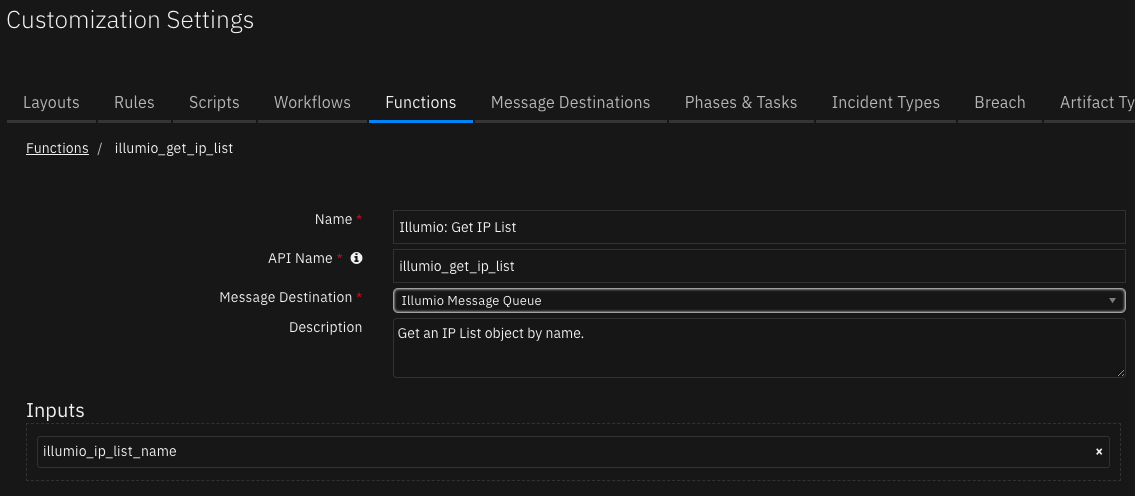
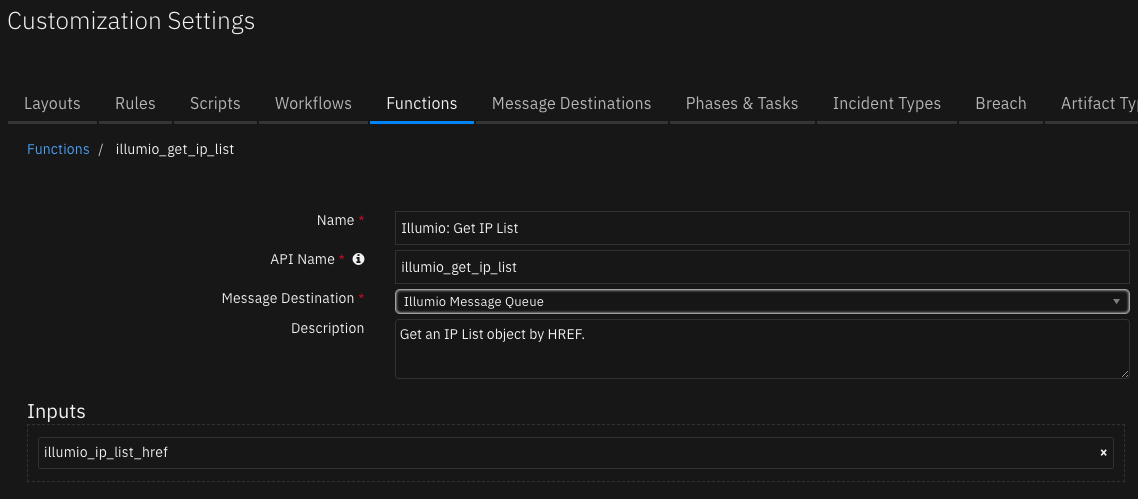
update user guide and screenshots for v1.1.0

diff --git a/fn_illumio/doc/README.md b/fn_illumio/doc/README.md
@@ -8,7 +8,9 @@
 - [Function - Illumio: Create Service Binding](#function---illumio-create-service-binding)
 - [Function - Illumio: Create Ruleset](#function---illumio-create-ruleset)
 - [Function - Illumio: Create Rule](#function---illumio-create-rule)
+- [Function - Illumio: Create IP List](#function---illumio-create-ip-list)
 - [Function - Illumio: Get IP List](#function---illumio-get-ip-list)
+- [Function - Illumio: Get IP Lists](#function---illumio-get-ip-lists)
 - [Function - Illumio: Get Workload](#function---illumio-get-workload)
 - [Function - Illumio: Get Workloads](#function---illumio-get-workloads)
 - [Function - Illumio: Run Traffic Analysis](#function---illumio-run-traffic-analysis)
@@ -32,12 +34,15 @@ You can find additional documentation for your version of Illumio Core through t
 The following functions are currently implemented:  
 
 * Create an Enforcement Boundary
+* Create an IP List
 * Create a Rule Set
     * Create a Rule
 * Create a Virtual Service
     * Bind Workloads to a Virtual Service
-* Get an IP List by name
-* Get one or more Workloads
+* Get a collection of IP Lists
+* Get an IP List by HREF
+* Get a collection of Workloads
+* Get a Workload by HREF
 * Provision policy objects
 * Run a traffic analysis query
 * Update the enforcement modes of one or more Workloads
@@ -537,8 +542,114 @@ None
 
 ---
 
+## Function - Illumio: Create IP List  
+Create an IP List object.  
+
+ ![screenshot: fn-illumio-create-ip-list ](./screenshots/fn-illumio-create-ip-list.png)
+
+<details><summary>Inputs:</summary>
+<p>
+
+| Name | Type | Required | Example | Tooltip |
+| ---- | :--: | :------: | ------- | ------- |
+| `illumio_ip_list_name` | `text` | No | `IPL-IBM-SOAR` | IP List name. Defaults to IPL-IBM-SOAR |
+| `illumio_ip_list_description` | `text` | No | `IP list created through IBM SOAR.` | IP List description. |
+| `illumio_ip_list_fqdns` | `text` | No | `example1.com,example2.com` | Comma-separated list of FQDNs to add to the created IP list. Note that either FQDNs or IP ranges must be provided for valid IP list creation. |
+| `illumio_ip_list_ip_ranges` | `text` | No | `127.0.0.1,10.0.0.0/8,172.168.0.2-172.168.0.12` | Comma-separated list of IP addresses or ranges to include in the created IP list. The values can be single IPs, CIDR format, or hyphenated start-end ranges. Note that either IP ranges or FQDNs must be provided for valid IP list creation. |
+
+</p>
+</details>
+
+<details><summary>Outputs:</summary>
+<p>
+
+```python
+results = {
+    "version": 2.0,
+    "success": true,
+    "reason": null,
+    "content": {
+        "href": "/orgs/28/sec_policy/draft/ip_lists/2335",
+        "name": "IPL-LAB",
+        "description": "",
+        "created_at": "2022-03-10T04:33:50.982Z",
+        "updated_at": "2022-03-10T04:33:50.989Z",
+        "update_type": "create",
+        "created_by": {
+            "href": "/users/520"
+        },
+        "updated_by": {
+            "href": "/users/520"
+        },
+        "ip_ranges": [
+            {
+                "from_ip": "10.2.24.0/28",
+                "exclusion": false
+            },
+            {
+                "from_ip": "10.8.16.192",
+                "to_ip": "10.8.16.212",
+                "exclusion": false
+            },
+            {
+                "from_ip": "10.10.0.146",
+                "exclusion": false
+            }
+        ],
+        "fqdns": [
+            {
+                "fqdn": "ibmsoar.lab.com"
+            },
+            {
+                "fqdn": "apphost.lab.com"
+            }
+        ]
+    },
+    "raw": null,
+    "inputs": {
+        "illumio_ip_list_ip_ranges": "10.2.24.0/28,10.8.16.192-10.8.16.212,10.10.0.146",
+        "illumio_ip_list_name": "IPL-LAB",
+        "illumio_ip_list_description": "",
+        "illumio_ip_list_fqdns": "ibmsoar.lab.com,apphost.lab.com"
+    },
+    "metrics": {
+        "version": "1.0",
+        "package": "fn-illumio",
+        "package_version": "1.1.0",
+        "host": "C02G82JEMD6R",
+        "execution_time_ms": 812,
+        "timestamp": "2022-03-09 23:33:50"
+    }
+}
+```
+
+</p>
+</details>
+
+<details><summary>Example Pre-Process Script:</summary>
+<p>
+
+```python
+None
+```
+
+</p>
+</details>
+
+<details><summary>Example Post-Process Script:</summary>
+<p>
+
+```python
+None
+```
+
+</p>
+</details>
+
+---
+
 ## Function - Illumio: Get IP List  
-Get an IP List object by name.  
+Get an IP List object by HREF.  
 
  ![screenshot: fn-illumio-get-ip-list ](./screenshots/fn-illumio-get-ip-list.png)
 
@@ -547,7 +658,7 @@ Get an IP List object by name.
 
 | Name | Type | Required | Example | Tooltip |
 | ---- | :--: | :------: | ------- | ------- |
-| `illumio_ip_list_name` | `text` | Yes | `Any (0.0.0.0/0 and ::/0)` | IP List object name. Accepts partial matches |
+| `illumio_ip_list_href` | `text` | Yes | `/orgs/1/sec_policy/active/ip_lists/1` | IP List object reference key. |
 
 </p>
 </details>
@@ -561,7 +672,7 @@ results = {
     "success": True,
     "reason": None,
     "content": {
-        "href": "/orgs/1/sec_policy/active/ip_lists/1334",
+        "href": "/orgs/1/sec_policy/active/ip_lists/1",
         "name": "Any (0.0.0.0/0 and ::/0)",
         "created_at": "2021-09-13T15:03:07.000Z",
         "updated_at": "2021-09-13T15:03:07.015Z",
@@ -570,6 +681,88 @@ results = {
         "ip_ranges": [
             {"from_ip": "0.0.0.0/0", "exclusion": False},
             {"from_ip": "::/0", "exclusion": False}
+        ]
+    },
+    "raw": None,
+    "inputs": {
+        "illumio_ip_list_name": "Any (0.0.0.0/0 and ::/0)"
+    },
+    "metrics": {
+        "version": "1.0",
+        "package": "fn-illumio",
+        "package_version": "1.0.0",
+        "host": "C02G82JEMD6R",
+        "execution_time_ms": 811,
+        "timestamp": "2022-01-07 10:22:52"
+    }
+}
+```
+
+</p>
+</details>
+
+<details><summary>Example Pre-Process Script:</summary>
+<p>
+
+```python
+None
+```
+
+</p>
+</details>
+
+<details><summary>Example Post-Process Script:</summary>
+<p>
+
+```python
+None
+```
+
+</p>
+</details>
+
+---
+
+## Function - Illumio: Get IP Lists  
+Get a collection of IP lists based on the provided parameters.  
+
+ ![screenshot: fn-illumio-get-ip-lists ](./screenshots/fn-illumio-get-ip-lists.png)
+
+<details><summary>Inputs:</summary>
+<p>
+
+| Name | Type | Required | Example | Tooltip |
+| ---- | :--: | :------: | ------- | ------- |
+| `illumio_ip_list_name` | `text` | No | `Any (0.0.0.0/0 and ::/0)` | IP List object name. Supports partial matches. |
+| `illumio_ip_list_fqdn` | `text` | No | `www.example.com` | IP list FQDN. Supports partial matches. |
+| `illumio_ip_list_ip_address` | `text` | No | `127.0.0.1` | Search for IP lists matching the given address. Supports partial matches. |
+| `illumio_max_results` | `number` | No | `500` | Limit the maximum number of results returned by the query. |
+
+</p>
+</details>
+
+<details><summary>Outputs:</summary>
+<p>
+
+```python
+results = {
+    "version": 2.0,
+    "success": True,
+    "reason": None,
+    "content": {
+        "ip_lists": [
+            {
+                "href": "/orgs/1/sec_policy/active/ip_lists/1",
+                "name": "Any (0.0.0.0/0 and ::/0)",
+                "created_at": "2021-09-13T15:03:07.000Z",
+                "updated_at": "2021-09-13T15:03:07.015Z",
+                "created_by": {"href": "/users/0"},
+                "updated_by": {"href": "/users/0"},
+                "ip_ranges": [
+                    {"from_ip": "0.0.0.0/0", "exclusion": False},
+                    {"from_ip": "::/0", "exclusion": False}
+                ]
+            }
         ]
     },
     "raw": None,
@@ -799,6 +992,7 @@ Get multiple workloads based on the given search criteria.
 | `illumio_workload_managed` | `boolean` | No | `-` | If set, returns only managed workloads if true, or unmanaged workloads if false. |
 | `illumio_workload_name` | `text` | No | `-` | The name of the workload(s) to search for. Supports partial matches. |
 | `illumio_workload_online` | `boolean` | No | `-` | If set, returns only online workloads if true or offline workloads if false. |
+| `illumio_max_results` | `number` | No | `500` | Limit the maximum number of results returned by the query. |
 
 </p>
 </details>
